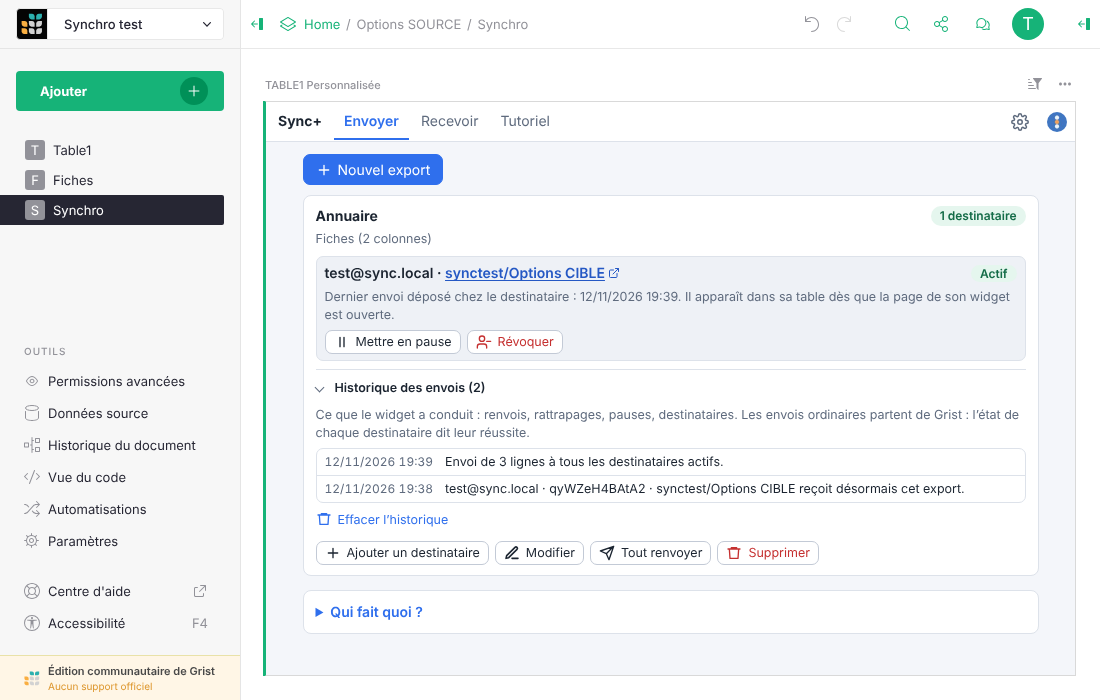
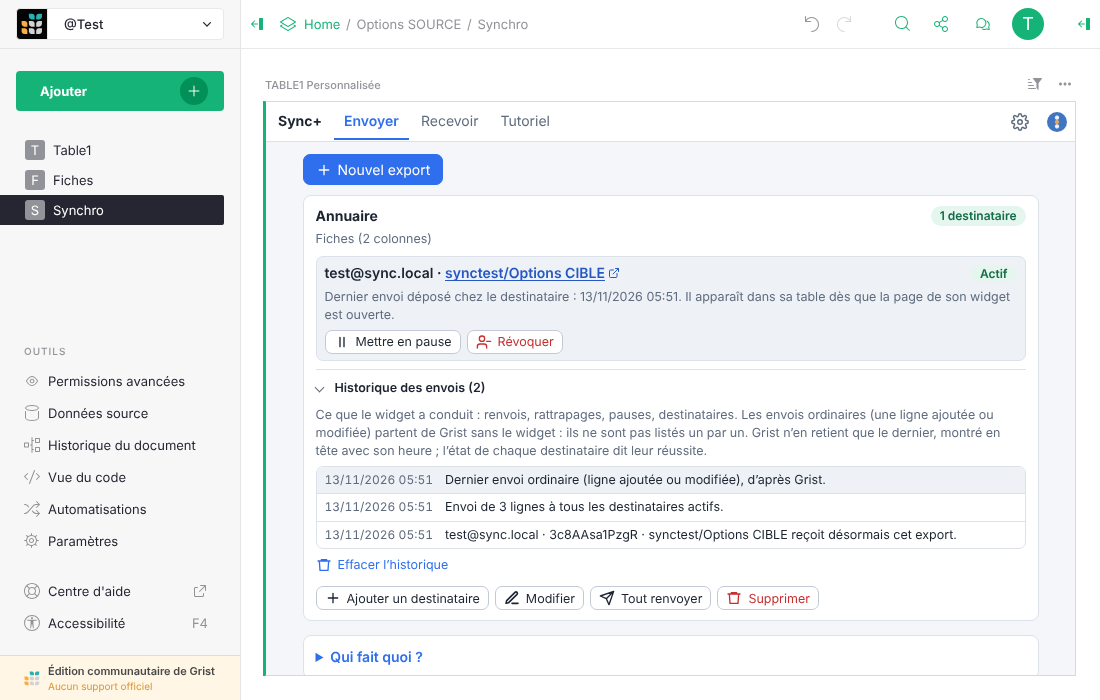
V0.28.4 : historique des envois, dernier envoi ordinaire d'après Grist en tête, relu au repos
Un envoi ordinaire (ligne ajoutée ou modifiée) part par le webhook de Grist sans que le widget ne
tourne : il n'a jamais été un événement de l'historique, qui ne garde que ce que le widget conduit.
Rien n'était dit de l'heure du dernier envoi à cet endroit, et une page au repos ne relisait jamais
l'état des destinataires (le « Dernier envoi déposé » d'une fiche restait celui du dessin précédent).

- js/source/last-send.js : le dernier envoi réussi parmi les destinataires (usage.lastSuccessTime),
  logique pure testée ; ligne en tête de l'historique, hors note (pas comptée, gardée après
  « Effacer l'historique »), cachée quand Grist n'en dit aucun ; moteur inchangé (5.0.0).
- tickFlows relit toutes les 30 s au repos (10 s quand un envoi bouge) : fiches et ligne du dernier
  envoi se mettent à jour sur place, sans clic ; page cachée sans envoi en route : rien n'est lu.
- Textes d'aide, tutoriel et docs/04 ; capture 28 refaite ; e2e ONLY_HISTORY=1 (historySteps),
  cleanSteps adapté (le bloc reste tant que Grist donne un dernier envoi).

Claude-Session: https://claude.ai/code/session_01TbSoW53tQCguxPGKKBj7na

diff --git a/js/source/tab.js b/js/source/tab.js
@@ -32,6 +32,7 @@ import { exportWizard } from './export-wizard.js';
 import { foreignDialog, strayDialog } from './strays.js';
 import { checkKeys } from '../engine/source/keys.js';
 import { keysBlock } from './keys.js';
+import { lastSend } from './last-send.js';
 import { filterSummary } from './filter-editor.js';
 import { recipientWizard } from './recipient-wizard.js';
 import { hookDoc, hookShown } from './shown.js';
@@ -168,6 +169,7 @@ export async function renderSource(root = container, { periodic = false } = {}) 
   // « Nouvel export » demandé juste avant le rechargement que les règles d'accès ont causé : l'assistant s'ouvre.
   if (!periodic && wizardAsked('export', { consume: true }) && !state.ownerOnly && !state.foreign && !blocksNew(state.lost)) run(null, container.querySelector('.out'), newExport);
   if ([...flowSlots.values()].some(slot => slot.moving) || state.exports.some(exp => exp.recipients.some(hookBusy))) watchFlows();
+  else if (state.exports.some(exp => exp.recipients.length)) watchFlows(IDLE_MS);
   if (state.ownerOnly) return;
   resumeExchange(state);
   if (!periodic) askAboutSync(state);
@@ -392,16 +394,37 @@ function keyNotice(exp, state) {
 }
 
 // Historique des envois (voir addEvent), replié par défaut ; ce qu'on ouvre le reste d'un dessin à
-// l'autre.
+// l'autre. En tête de liste, le dernier envoi ordinaire d'après Grist (voir last-send.js) : une ligne ajoutée ou modifiée part par
+// le webhook, sans le widget, donc sans événement ici. Cette ligne n'est pas un événement de la note (elle n'est pas comptée dans le
+// titre) : elle est relue toutes les 30 s page ouverte (voir tickFlows) et se met à jour sur place.
 const eventsOpen = new Set();
 const eventLine = e => el('li', { class: 'send-event' },
   el('time', { class: 'chg-time', datetime: new Date(e.at * 1000).toISOString() }, dateText(e.at * 1000)),
   el('span', {}, t(`send.history.${e.kind}`, { who: e.who || '—', n: e.n || 0 })));
-const eventsBlock = (exp, out, ownerOnly) => (exp.events.length ? el('details', {
+
+// Remplit (ou cache) la ligne du dernier envoi ordinaire d'un export, à partir de l'état de ses destinataires.
+function fillLast(row, recipients) {
+  const last = lastSend(recipients);
+  row.hidden = !last;
+  if (!last) return;
+  const text = [t('send.history.last')];
+  // Plusieurs destinataires : celui qui a reçu le plus récent, les autres ont leur propre heure sur leur fiche.
+  if (last.of > 1) text.push(' ', t('send.history.lastWho', { who: personShown(last.hook), n: last.n, of: last.of }));
+  row.replaceChildren(
+    el('time', { class: 'chg-time', datetime: new Date(last.at).toISOString() }, dateText(last.at)),
+    el('span', {}, ...text));
+}
+
+const lastRow = exp => {
+  const row = el('li', { class: 'send-event send-last', 'data-last-send': exp.id });
+  fillLast(row, exp.recipients);
+  return row;
+};
+const eventsBlock = (exp, out, ownerOnly) => (exp.events.length || lastSend(exp.recipients) ? el('details', {
   class: 'history', open: eventsOpen.has(exp.id), ontoggle: e => (e.currentTarget.open ? eventsOpen.add(exp.id) : eventsOpen.delete(exp.id)),
-}, el('summary', {}, el('span', { class: 'history-title' }, t('send.history.title', { n: exp.events.length }))),
-  el('p', { class: 'muted small' }, t('send.history.help')), el('ul', { class: 'history-rows' }, exp.events.map(eventLine)),
-  actionButton(t('send.history.clear'), 'trash', () => clearHistory(exp), ownerOnly, out, { kind: 'btn-link' })) : null);
+}, el('summary', {}, el('span', { class: 'history-title' }, t(exp.events.length ? 'send.history.title' : 'send.history.title.none', { n: exp.events.length }))),
+  el('p', { class: 'muted small' }, t('send.history.help')), el('ul', { class: 'history-rows' }, [lastRow(exp), ...exp.events.map(eventLine)]),
+  exp.events.length ? actionButton(t('send.history.clear'), 'trash', () => clearHistory(exp), ownerOnly, out, { kind: 'btn-link' }) : null) : null);
 
 // Ce que dit l'erreur d'un destinataire. Un journal qui refuse une colonne que Synchro porte sans
 // qu'elle soit au widget, ou qu'elle ne porte plus mais que la file garde, n'a rien à faire de son
@@ -465,9 +488,13 @@ function fillPerson(slot, h) {
 // de ses destinataires, tant qu'un envoi bouge ; une page qui change d'état se redessine en entier.
 // Une lecture légère toutes les 10 s (ligne 'charge', webhooks), jamais la table Synchro.
 const FLOW_MS = 10000;
+// Au repos (rien n'est en route), la page relit l'état des destinataires plus rarement : un envoi ordinaire, parti de Grist sans le
+// widget, s'y montre alors tout seul (dernier envoi de la fiche et de l'historique, voir last-send.js).
+const IDLE_MS = 30000;
 const flowSlots = new Map(); // export -> { node, exp, moving }
 const personSlots = new Map(); // webhook -> { pill, lines, syncCols, status }
 let flowTimer = 0;
+let flowDue = 0;
 let loading = 0; // envois lancés depuis cette page par « Tout renvoyer »
 
 function flowSlot(exp, charge) {
@@ -479,8 +506,13 @@ function flowSlot(exp, charge) {
   return node;
 }
 
-function watchFlows() {
-  if (!flowTimer) flowTimer = setTimeout(tickFlows, FLOW_MS);
+// Relecture suivante dans `ms` : la plus proche l'emporte (un envoi qui bouge ne attend pas la relecture lente du repos).
+function watchFlows(ms = FLOW_MS) {
+  const due = Date.now() + ms;
+  if (flowTimer && flowDue <= due) return;
+  clearTimeout(flowTimer);
+  flowDue = due;
+  flowTimer = setTimeout(tickFlows, ms);
 }
 
 // Redessine l'avancement de chaque export affiché ; rend { moving (un envoi est en route), changed (un envoi vient de finir) }.
@@ -495,6 +527,11 @@ function refreshFlows(charge, hooks, conditions, moving) {
     const flow = flowOf(slot.exp, charge);
     const view = flowView(flow);
     slot.node.replaceChildren(...(view ? [view] : []));
+    // Dernier envoi ordinaire de l'historique : mis à jour sur place ; l'historique n'était pas affiché (aucun envoi ni événement
+    // jusque-là) et un envoi vient d'arriver : la carte se redessine.
+    const row = slot.node.parentElement && slot.node.parentElement.querySelector('[data-last-send]');
+    if (row) fillLast(row, slot.exp.recipients);
+    else changed ||= Boolean(lastSend(slot.exp.recipients));
     changed ||= slot.moving && !flowMoves(flow);
     slot.moving = flowMoves(flow);
     moving ||= slot.moving;
@@ -518,6 +555,11 @@ function refreshPeople(hooks, state) {
 async function tickFlows() {
   flowTimer = 0;
   if (!container || !container.isConnected) return;
+  // Au repos et page cachée : rien à lire, la relecture reprend à son rythme (le rattrapage, lui, a le sien).
+  if (document.visibilityState === 'hidden' && !loading && ![...flowSlots.values()].some(slot => slot.moving)) {
+    watchFlows(IDLE_MS);
+    return;
+  }
   let charge;
   let hooks;
   let conditions;
@@ -526,12 +568,12 @@ async function tickFlows() {
     [charge, read] = await Promise.all([currentCharge(), readHooks()]);
     ({ hooks, conditions } = read);
   } catch (e) {
-    if (loading) watchFlows();
+    watchFlows(loading ? FLOW_MS : IDLE_MS);
     return;
   }
   const { moving, changed } = refreshPeople(hooks, refreshFlows(charge, hooks, conditions, loading > 0));
   if (changed && !document.querySelector('.scrim')) await refreshSource();
-  else if (moving || changed) watchFlows();
+  else watchFlows(moving || changed ? FLOW_MS : IDLE_MS);
 }
 
 // Invitation en attente. Celle d'un Échange attend d'abord le lien de son formulaire de retour, et

diff --git a/js/source/last-send.js b/js/source/last-send.js
@@ -1,0 +1,33 @@
+// Dernier envoi ordinaire d'un export, tel que Grist le dit.
+//
+// Une ligne ajoutée ou modifiée dans la SOURCE part par le webhook de Grist, sans le widget : aucun code du widget ne tourne à ce
+// moment, donc rien ne s'écrit dans l'historique des envois (qui ne garde que ce que le widget conduit : renvois, rattrapages,
+// pauses, destinataires, voir addEvent). Écrire chaque envoi ordinaire dans cet historique n'est pas une voie sûre : il ne serait
+// vu que page ouverte, il noierait les repères de destinataires (`join` et `revoke`) que `vanishedRecipients` relit dans les
+// EVENTS_KEPT derniers événements, et chaque ouverture ajouterait une écriture de plus à la note.
+//
+// Ce que Grist dit, lui, tient dans l'état d'envoi de chaque webhook (`usage.lastSuccessTime`, en millisecondes) : l'heure du
+// dernier envoi réussi chez ce destinataire (remise à zéro quand le webhook est coupé puis rallumé). L'écran la montre en tête de
+// l'historique et la relit sans que personne ne touche à rien (voir tickFlows). Logique pure, sans écran.
+
+// Heure d'un envoi réussi (ms), 0 si Grist n'en dit aucune ou une valeur qui n'en est pas une.
+const deliveredAt = h => {
+  const at = Number(((h || {}).usage || {}).lastSuccessTime);
+  return Number.isFinite(at) && at > 0 && at < 4e12 ? at : 0;
+};
+
+// Le dernier envoi réussi parmi les destinataires : { at (ms), hook (le webhook qui l'a reçu), n (destinataires qui en ont reçu
+// un), of (destinataires de l'export) }, null si aucun n'en a reçu. Un destinataire en pause garde sa dernière heure tant que
+// Grist la garde.
+export function lastSend(recipients) {
+  const list = Array.isArray(recipients) ? recipients : [];
+  let best = null;
+  let n = 0;
+  for (const hook of list) {
+    const at = deliveredAt(hook);
+    if (!at) continue;
+    n += 1;
+    if (!best || at > best.at) best = { at, hook };
+  }
+  return best && { ...best, n, of: list.length };
+}

diff --git a/css/style.css b/css/style.css
@@ -345,6 +345,10 @@ summary.chg-row:hover { background: var(--surface-sunken); }
 .chg-time { color: var(--text-muted); font-size: 12px; font-variant-numeric: tabular-nums; white-space: nowrap; }
 .send-event { display: grid; grid-template-columns: auto 1fr; gap: 4px 12px; padding: 4px 8px; font-size: 12.5px; }
 .send-event + .send-event { border-top: 1px solid var(--border); }
+/* Dernier envoi ordinaire (d'après Grist, voir last-send.js) : en tête de l'historique, sans être un événement de la note ; caché quand Grist n'en dit aucun. */
+.send-event[hidden] { display: none; }
+.send-event[hidden] + .send-event { border-top: 0; }
+.send-last { background: var(--surface-sunken); }
 .history > .small { margin: 6px 0; }
 
 /* Petit tableau de valeurs (avant/après de l'historique, valeurs retouchées), comme une vue Grist. */

diff --git a/js/config.js b/js/config.js
@@ -16,4 +16,4 @@ export const widgetUrl = () => (servedAt() === BETA_URL ? BETA_URL : WIDGET_URL)
 // D'où cette copie est servie, pour le diagnostic.
 export const servedFrom = () => ({ [BETA_URL]: 'bêta', [WIDGET_URL]: 'officielle' }[servedAt()] || servedAt());
 
-export const VERSION = '0.28.3';
+export const VERSION = '0.28.4';

diff --git a/CLAUDE.md b/CLAUDE.md
@@ -375,7 +375,27 @@ catalogue), syncPlus seul se comporte comme avant, tout est dans `js/engine/` (m
   `engine-fake.mjs`, préfixe `Gfs_`) ; les autres essais n'ont changé que leurs chemins d'import (`js/logic` devient
   `js/engine/logic`), l'e2e que les chemins des fichiers servis.
 
-## État : V0.28.3 (13 novembre 2026)
+## État : V0.28.4 (13 novembre 2026)
+
+V0.28.4 (Antoine, 13 novembre, en testant la Bêta : « l'historique des envois côté source ne semble pas se mettre à jour après l'ajout d'une ligne […] vers 6h35 j'ai rajouté une valeur,
+s'est bien sync mais pas dans l'historique »). **Moteur inchangé (5.0.0)** : tout est à l’écran (`js/source/last-send.js`, `js/source/tab.js`).
+- **Cause (reproduite dans un vrai Grist, `ONLY_HISTORY=1` sur le code d'avant : la ligne modifiée arrive bien, l'historique ne montre rien de plus)** : ce n'est ni l'écriture ni
+  l'affichage, c'est le choix de la 0.12.0 (F8) : l'historique ne garde que ce que le widget **conduit** (renvois, rattrapages, pauses, destinataires), et un envoi ordinaire part
+  par le webhook de Grist sans que le widget ne tourne. Le texte d'aide le disait mais Antoine s'attendait à y voir chaque envoi. **Pas corrigé en écrivant chaque envoi dans la
+  note** : il ne serait vu que page ouverte, il noierait les repères `join` et `revoke` que `vanishedRecipients` relit dans les `EVENTS_KEPT` (30) derniers événements, et il ajouterait
+  une écriture de la note à chaque envoi.
+- **Ce qui est montré maintenant** : en tête de l'historique, une ligne **« Dernier envoi ordinaire (ligne ajoutée ou modifiée), d'après Grist »** avec l'heure, prise dans l'état
+  d'envoi des webhooks (`usage.lastSuccessTime`, le plus récent des destinataires ; avec plusieurs destinataires la ligne dit chez qui). Ce n'est pas un événement de la note : elle n'est
+  pas comptée dans le titre, elle reste après « Effacer l'historique » (le bloc se montre dès qu'il y a un événement **ou** un dernier envoi ; « Historique des envois » sans compte quand
+  la note n'a rien), elle est cachée quand Grist ne dit rien (webhook rallumé : l'état est remis à zéro). Texte d'aide, tutoriel et `docs/04` disent la même chose.
+- **Rafraîchissement** (second défaut vu en cherchant) : une page SOURCE au repos ne relisait jamais l'état des destinataires (`tickFlows` ne repartait que si un envoi bougeait), donc le
+  « Dernier envoi déposé » de la fiche d'un destinataire restait celui du dessin précédent. `tickFlows` relit maintenant **toutes les 30 s au repos** (`IDLE_MS`, 10 s quand un envoi
+  bouge ; `watchFlows(ms)` garde l'échéance la plus proche) : fiches et ligne du dernier envoi se mettent à jour sur place, sans clic ; page cachée sans envoi en route : rien n'est lu.
+  Même lecture légère que l'avancement des envois (`currentCharge`, `readHooks`).
+- Testé : unit 4 de plus (`last-send.test.mjs`) ; e2e `ONLY_HISTORY=1` (`historySteps`, dans le parcours complet après `cleanSteps`) : la ligne est en tête, prend l'heure de Grist sans clic après
+  une modification puis une seconde, aucun événement de plus dans la note, reste après « Effacer l'historique » ; `docs/images/28-source-historique.png` refaite.
+
+## État précédent : V0.28.3 (13 novembre 2026)
 
 V0.28.3 (Antoine, 13 novembre, sur la Bêta : « j'ai ajouté le widget dans une table A, et j'ai dit de créer une nouvelle table B pour la donnée importée côté cible. Le widget m'a indiqué dans
 une pop-up qu'il mettrait lui-même le widget dans la bonne table mais rien dans la table B ? », puis, ayant trouvé le bouton : « rien n'indique que c'est nécessaire, il faut que le partage soit en

diff --git a/docs/04-tutoriel.md b/docs/04-tutoriel.md
@@ -539,8 +539,10 @@ lui-même.
 ajouté dans la SOURCE s'ajoute ici, et une mise en forme retouchée ici reste.
 
 **Historique des envois**, sur la carte de l'export (replié) : destinataires ajoutés, envois et
-renvois, rattrapages, pauses, révocations, modifications. Les envois ordinaires partent de Grist
-sans le widget : l'état de chaque destinataire dit s'ils réussissent.
+renvois, rattrapages, pauses, révocations, modifications. Les envois ordinaires (une ligne ajoutée
+ou modifiée) partent de Grist sans le widget : ils ne sont pas listés un par un. La première ligne
+donne l'heure du dernier d'entre eux, d'après Grist, et se met à jour toute seule page ouverte ;
+l'état de chaque destinataire dit s'ils réussissent.
 
 ![Historique des envois](images/28-source-historique.png)
 

diff --git a/README.md b/README.md
@@ -11,7 +11,7 @@ Sans serveur à héberger, sans dépendance, et seules les colonnes que vous cho
 
 <img src="docs/images/14-cible-historique.png" width="820" alt="Le widget dans le document qui reçoit : l'export « Annuaire » est à jour et liste les lignes ajoutées, modifiées et supprimées depuis la dernière visite">
 
-<sub>Version 0.28.3 · Grist 1.7.11 ou plus récent · licence GPL-3.0 · Grist Factory</sub>
+<sub>Version 0.28.4 · Grist 1.7.11 ou plus récent · licence GPL-3.0 · Grist Factory</sub>
 
 </div>
 

diff --git a/README.en.md b/README.en.md
@@ -11,7 +11,7 @@ No server to host, no dependencies, and only the columns you pick leave the docu
 
 <img src="docs/images/14-cible-historique.png" width="820" alt="The widget in the receiving document: the “Annuaire” export is up to date and lists the rows added, changed and deleted since the last visit">
 
-<sub>Version 0.28.3 · Grist 1.7.11 or later · GPL-3.0 license · Grist Factory</sub>
+<sub>Version 0.28.4 · Grist 1.7.11 or later · GPL-3.0 license · Grist Factory</sub>
 
 </div>
 
